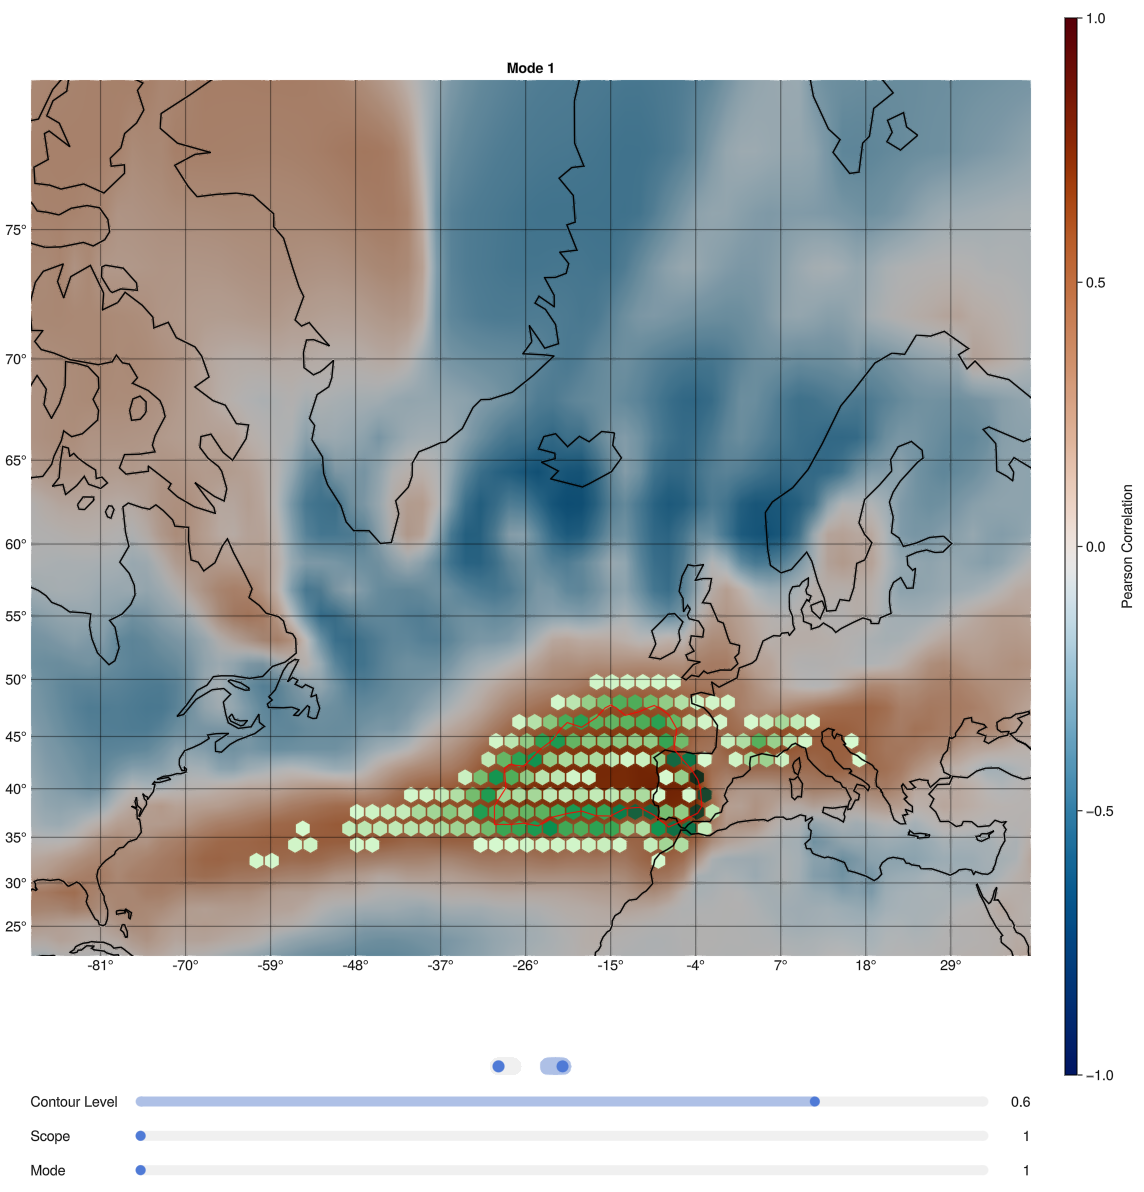
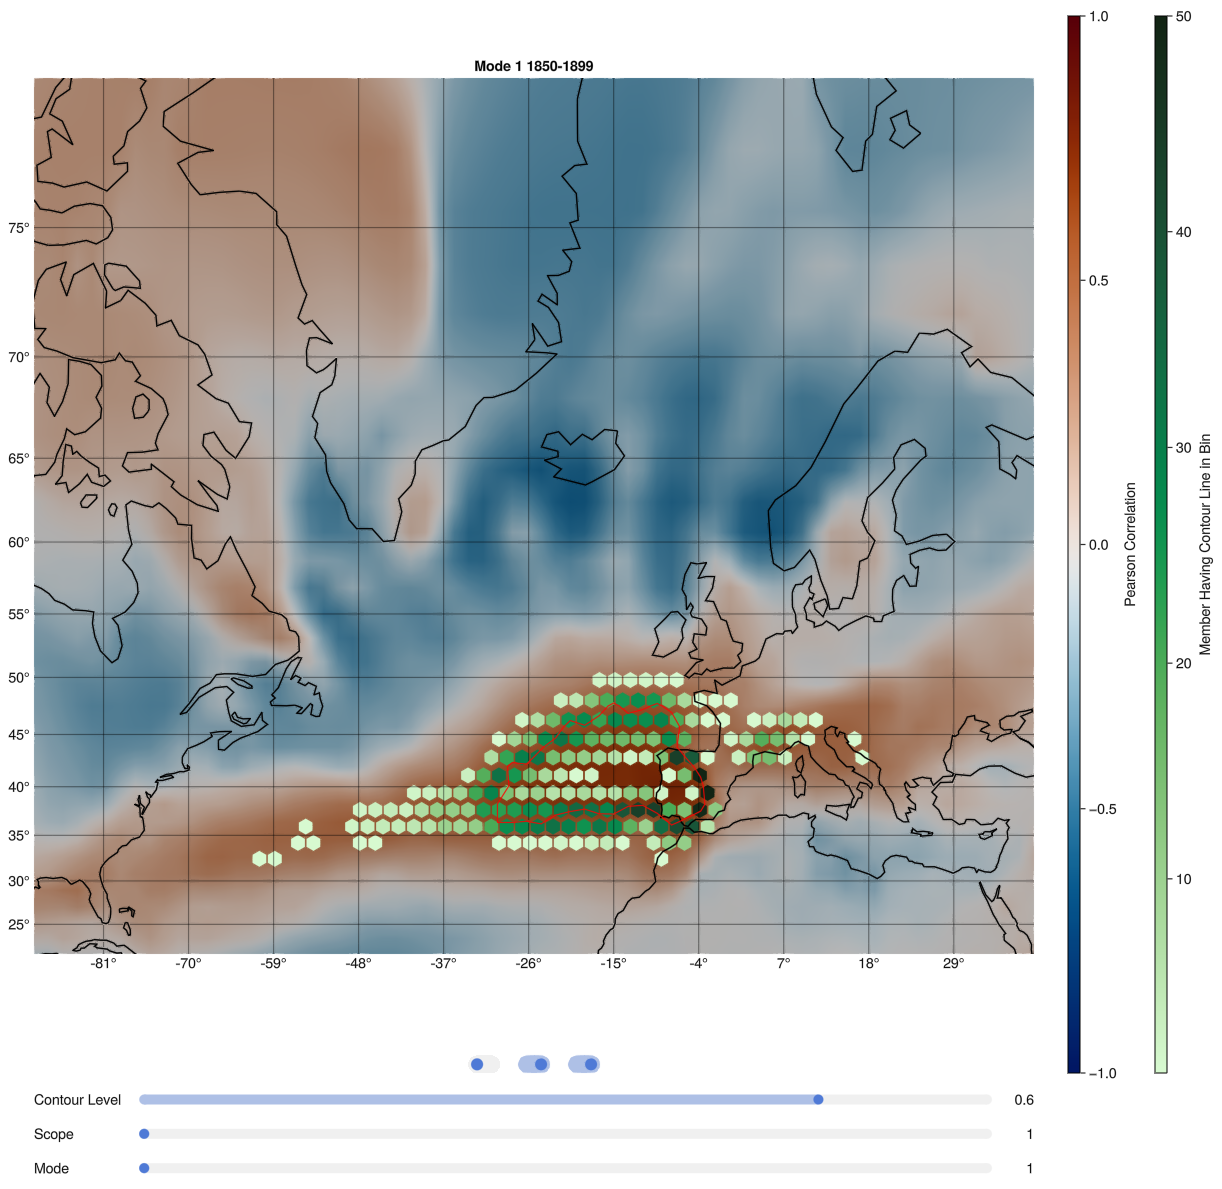
Adds updated Figures

diff --git a/thesis/chapters/5_evaluation.tex b/thesis/chapters/5_evaluation.tex
@@ -68,35 +68,62 @@ In general, the modes beyond the second seem to be not well separated from the o
 
 \todo{Maybe I should just cut out the third pattern since I do not use it anywhere else and it seems degenerate, but alos this is why I assume it is degenerate and not worth of analyzing further}
 
+%
+% \begin{figure}[htb]
+%   \begin{center}
+%     \includegraphics[width=0.85\textwidth]{figures/ivt_spat_patterns_hexbin_18501899_ssp585_50seasons.png}
+%     \includegraphics[width=0.85\textwidth]{figures/ivt_spat_patterns_hexbin_20502100_ssp126_50seasons.png}
+%     \includegraphics[width=0.85\textwidth]{figures/ivt_spat_patterns_hexbin_20502100_ssp585_50seasons.png}
+%   \end{center}
+%   \caption{The top three EOFs of IVT data, with a 50 winter scope and hexbins visualizing the variability introduced by simulation members. The top row displays the state in the historical simulation (second half of 19th century), while middle (SSP126) and bottom (SSP585) display the state in the second half of the 21st century. The red line shows the contour line of zero of the preindustrial control simulation. }\label{fig:ivt eof evolution}
+% \end{figure}
 
-\begin{figure}[htb]
-  \begin{center}
-    \includegraphics[width=0.85\textwidth]{figures/ivt_spat_patterns_hexbin_18501899_ssp585_50seasons.png}
-    \includegraphics[width=0.85\textwidth]{figures/ivt_spat_patterns_hexbin_20502100_ssp126_50seasons.png}
-    \includegraphics[width=0.85\textwidth]{figures/ivt_spat_patterns_hexbin_20502100_ssp585_50seasons.png}
-  \end{center}
-  \caption{The top three EOFs of IVT data, with a 50 winter scope and hexbins visualizing the variability introduced by simulation members. The top row displays the state in the historical simulation (second half of 19th century), while middle (SSP126) and bottom (SSP585) display the state in the second half of the 21st century. The red line shows the contour line of zero of the preindustrial control simulation. }\label{fig:ivt eof evolution}
+\begin{figure}[!htb]
+  \begin{subfigure}[b]{0.49\textwidth}
+        \includegraphics[width=\textwidth]{figures/ivt_eof_2modes_historical.png}
+    \caption{First scope of historical simulation}
+    \label{fig:ivt spatial patterns historical}
+  \end{subfigure}
+  \hfill
+  \begin{subfigure}[b]{0.49\textwidth}
+        \includegraphics[width=\textwidth]{figures/ivt_eof_2modes_endscenario.png}
+    \caption{Last Scope of scenario simulation}
+    \label{fig:ivt spatial patterns endscenario}
+  \end{subfigure}
+  \caption{The two primary spatial modes of IVT EOF, with a 50 winter scope and hexbins visualizing the variability introduced by simulation members. Figure~\ref{fig:ivt spatial patterns historical} shows the state in the historical simulation (second half of 19th century), while Figure~\ref{fig:ivt spatial patterns endscenario} displays the state in the second half of the 21st century. The left column in each picture is the result of SSP126, the right of SSP585. The red line shows the contour line of zero of the preindustrial control simulation. }\label{fig:ivt eof evolution}
 \end{figure}
 
-
 This Section shows the evolution of the spatial EOF patterns, shown in Figure~\ref{fig:5modes each variable}. 
-Since the EOF modes four and five are generally quite low and similar in their eigenvalues (which directly correspond to the variance (see Equation~\ref{eq:eof variance calculation}) encoded shown in Figures~\ref{fig:ivt mode variability}, \ref{fig:psl mode variability}, and \ref{fig:pr mode variability}), they are left out of the analysis of this and the following sections, as modes' eigenvalues need to be well separated from each other \cite{hannachi_empirical_2007}. 
+Since the EOF modes three, four and five are generally quite low and similar in their eigenvalues (which directly correspond to the variance (see Equation~\ref{eq:eof variance calculation}) encoded shown in Figures~\ref{fig:ivt mode variability}, \ref{fig:psl mode variability}, and \ref{fig:pr mode variability}), they are left out of the analysis of this and the following sections, as modes' eigenvalues need to be well separated from each other \cite{hannachi_empirical_2007}. 
 As already mentioned, mode three also seems to be not well separated, but is still shown in the following figures for an example how an inconsistent mode looks (at least for IVT and precipitation), which makes it hard (or even pointless) to evaluate it for an ensemble simulation.  
 Usually, the rule of thumb introduced by \citeauthorwork{north_sampling_1982} is used, but since the eigenvalues of the first three modes (or two for precipitation, see Figure~\ref{fig:pr mode variability}), this is left out of this Thesis. 
 
 The variability introduced through the 50 members of the MPI GE CMIP6 is displayed here with the hexbin approach explained in Section~\ref{sec:vis_analysis}, while a discussion of the hexbin visualization compared to the classical spaghetti is given in Section~\ref{sec:discussion}.
 The images in this section are the first and last frame from the video displaying the evolution of the different scenarios.\todo{Reference the videos somehow}  
 
-\begin{figure}[htb]
-  \begin{center}
-    \includegraphics[width=0.85\textwidth]{figures/psl_spat_patterns_hexbin_18501899_ssp585_50seasons.png}
-    \includegraphics[width=0.85\textwidth]{figures/psl_spat_patterns_hexbin_20502100_ssp126_50seasons.png}
-    \includegraphics[width=0.85\textwidth]{figures/psl_spat_patterns_hexbin_20502100_ssp585_50seasons.png}
-  \end{center}
+% \begin{figure}[htb]
+%   \begin{center}
+%     \includegraphics[width=0.85\textwidth]{figures/psl_spat_patterns_hexbin_18501899_ssp585_50seasons.png}
+%     \includegraphics[width=0.85\textwidth]{figures/psl_spat_patterns_hexbin_20502100_ssp126_50seasons.png}
+%     \includegraphics[width=0.85\textwidth]{figures/psl_spat_patterns_hexbin_20502100_ssp585_50seasons.png}
+%   \end{center}
+%   \caption{Same as Figure~\ref{fig:ivt eof evolution}, but with sea level pressure data.}\label{fig:psl eof evolution}
+% \end{figure}
+
+\begin{figure}[!tbp]
+  \begin{subfigure}[b]{0.49\textwidth}
+        \includegraphics[width=\textwidth]{figures/psl_eof_2modes_historical.png}
+    \caption{First scope of historical simulation}
+    \label{fig:psl spatial patterns historical}
+  \end{subfigure}
+  \hfill
+  \begin{subfigure}[b]{0.49\textwidth}
+        \includegraphics[width=\textwidth]{figures/psl_eof_2modes_endscenario.png}
+    \caption{Last Scope of scenario simulation}
+    \label{fig:psl spatial patterns endscenario}
+  \end{subfigure}
   \caption{Same as Figure~\ref{fig:ivt eof evolution}, but with sea level pressure data.}\label{fig:psl eof evolution}
 \end{figure}
-
-
 
 
 Figure~\ref{fig:ivt eof evolution} shows the evolution of IVT EOF spatial patterns. 
@@ -122,16 +149,29 @@ Also, the big area of fading out contour lines in the north of Scandinavia, seem
 While mode three of IVT EOF does expose changes between the different scenarios (again historical simulation and SSP126 look very similar, while SSP585 differs), the patterns seem to be pretty unstable compared to the other, indicated by the whole map being covered in light green hexbins. 
 This implies that the contour lines of zero are all over the map, which means that the structures are quite different across the simulations' members. 
 
-\begin{figure}[htb]
-  \begin{center}
-    \includegraphics[width=0.85\textwidth]{figures/pr_spat_patterns_hexbin_18501899_ssp585_50seasons.png}
-    \includegraphics[width=0.85\textwidth]{figures/pr_spat_patterns_hexbin_20502100_ssp126_50seasons.png}
-    \includegraphics[width=0.85\textwidth]{figures/pr_spat_patterns_hexbin_20502100_ssp585_50seasons.png}
-  \end{center}
+% \begin{figure}[htb]
+%   \begin{center}
+%     \includegraphics[width=0.85\textwidth]{figures/pr_spat_patterns_hexbin_18501899_ssp585_50seasons.png}
+%     \includegraphics[width=0.85\textwidth]{figures/pr_spat_patterns_hexbin_20502100_ssp126_50seasons.png}
+%     \includegraphics[width=0.85\textwidth]{figures/pr_spat_patterns_hexbin_20502100_ssp585_50seasons.png}
+%   \end{center}
+%   \caption{Same as Figure~\ref{fig:ivt eof evolution}, but with precipitation data.}\label{fig:pr eof evolution}
+% \end{figure}
+
+\begin{figure}[!tbp]
+  \begin{subfigure}[b]{0.49\textwidth}
+        \includegraphics[width=\textwidth]{figures/pr_eof_2modes_historical.png}
+    \caption{First scope of historical simulation}
+    \label{fig:pr spatial patterns historical}
+  \end{subfigure}
+  \hfill
+  \begin{subfigure}[b]{0.49\textwidth}
+        \includegraphics[width=\textwidth]{figures/pr_eof_2modes_endscenario.png}
+    \caption{Last Scope of scenario simulation}
+    \label{fig:pr spatial patterns endscenario}
+  \end{subfigure}
   \caption{Same as Figure~\ref{fig:ivt eof evolution}, but with precipitation data.}\label{fig:pr eof evolution}
 \end{figure}
-
-
 
 The evolution of sea level pressure patterns is displayed in Figure~\ref{fig:psl eof evolution}, showing the North Atlantic Oscillation  and the East Atlantic Pattern (see Section~\ref{sec:nao}). 
 While the first two EOFs are well known, real world phenomena, the third mode was never mentioned in the related literature. 
@@ -432,7 +472,7 @@ Figure~\ref{fig:ivt eof pr cor mode2} shows the same analysis, but for mode 2 of
 The area of higher (positive) correlation are here especially the west coasts of the British Islands and Scandinavia, but also the ocean westwards of them, the whole west coast of Europe, the North Sea. 
 Also, there are only a few members indicating that correlation level in the Gulf of Bothnia (between Finland and Sweden), but these seem to be outliers. 
 The end of the SSP126 scenario looks quite similar to the beginning of the historical simulation, except that the contour lines seem to reach less into European Mainland, and are less confident on the west coast of France.  
-This could be due to the increased influence of IVT EOF mode one in the same area, which reduces the effect of the secondary mode on that coast. 
+This could be due to the increased influence of IVT EOF1 in the same area, which reduces the effect of the secondary mode on that coast. 
 
 
 \begin{figure}[!htb]
@@ -459,7 +499,9 @@ This could be due to the increased influence of IVT EOF mode one in the same are
 
 Figure~\ref{fig:psl eof ivt cor mode1} shows the same correlation maps, but with the primary PSL EOF (the NAO index) and IVT data. 
 This has the goal of seeing how the oscillation indices are connected to the actual IVT data, and maybe even track a northward shift there. 
-In the first mode the negative correlations below $-0.6$ are shown, which should display the areas assiciated with the inverse of the normal NAO (pressure low in the south and pressure high in the north). 
+Here, the correlations in the direction of Figures~\ref{fig:cor ivt psl modes11} and \ref{fig:cor ivt psl modes22}, so negative for EOF1 and positive for EOF2.  
+% In the first mode the negative correlations below $-0.6$ are shown, which should display the areas associated with the inverse of the normal NAO (pressure low in the south and pressure high in the north). 
+Worth noting is here the area of positive correlation, which fits the description of the mechanics of the NAO given in Section~\ref{sec:nao}. 
 In general, the hexbins are not as dark green as in the previous figures, indicating that the members do not agree as unanimous. 
 The highest are of correlation on that level is on the west coast of the Iberian Peninsula and Morocco, and the ocean westwards of that are. 
 In the historical simulation, also the Labrador Sea features a few light green hexbins, indicating that only a few members seem to have that kind of correlation between IVT and the NAO index. 
@@ -488,8 +530,9 @@ This means that only a few outliers of the members changed, the contour lines of
   \label{fig:psl eof ivt cor mode2}
 \end{figure}
 
-\todo{Replace with positive correlations since the correlations are also positive!}
-
+Figure~\ref{fig:psl eof ivt cor mode2} depict the changes in correlation between PSL EOF2 coefficients (EAP index) and IVT data. 
+The positive correlation seems to affect whole Europe, but especially the European West Coast in France and the Iberian Peninsula. 
+But similar to the NAO index, there are no structural changes visible between the historical simulation and both future scenarios, only some outliers, while the hexbins of darker green stay in place.
 
 \section{Discussion}
 \label{sec:discussion}
